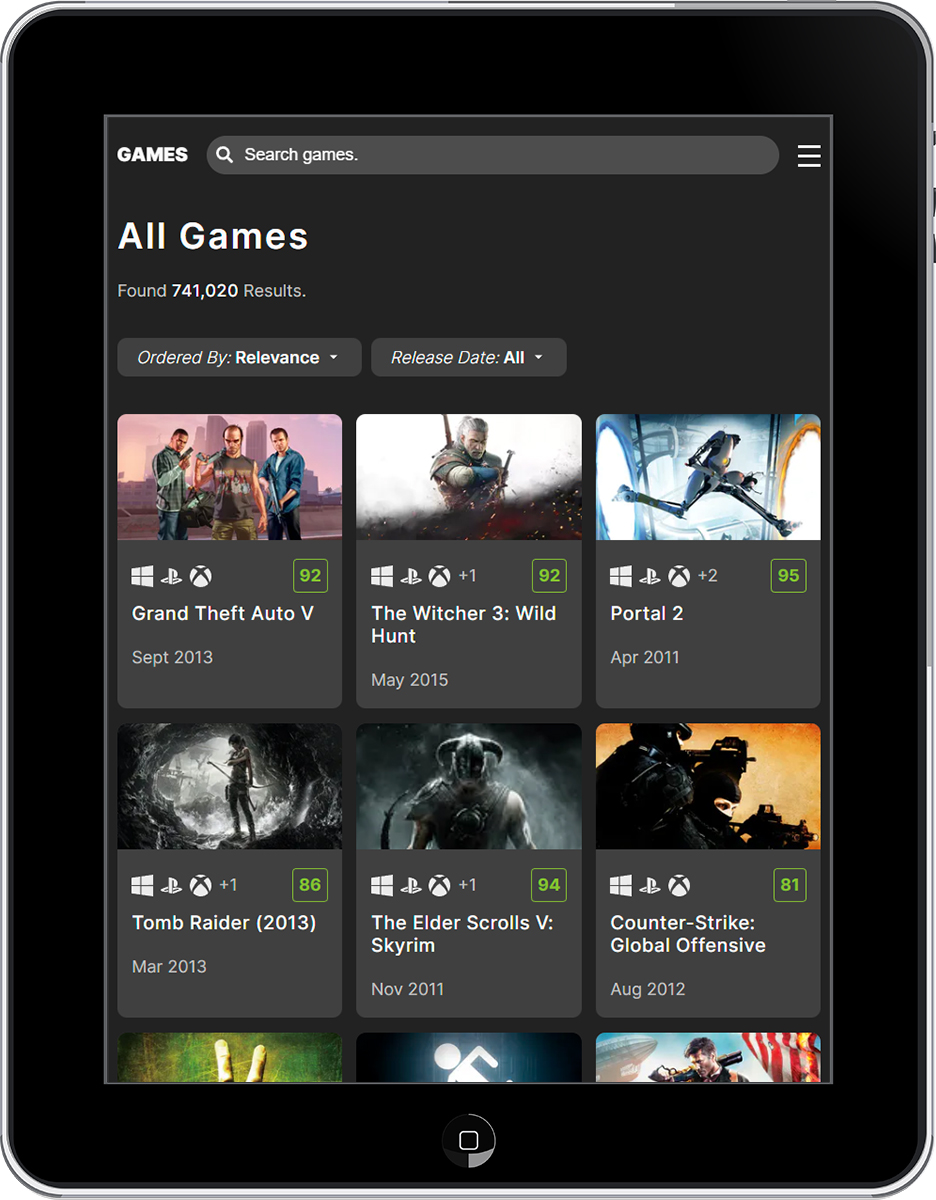
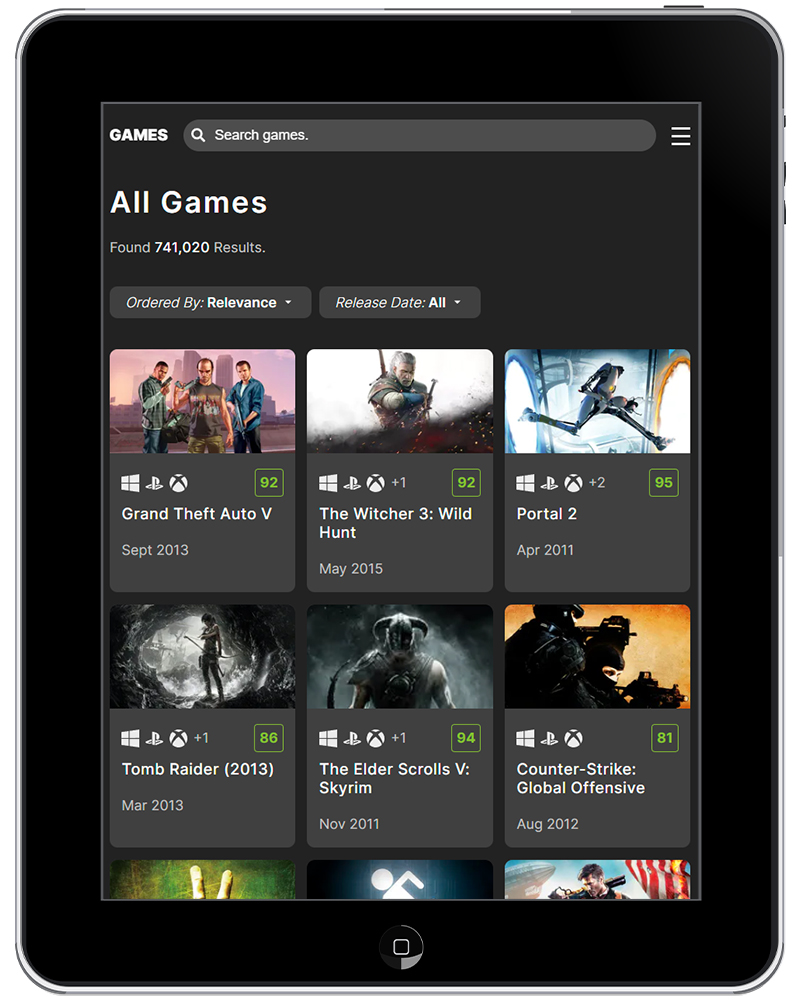
Updated Project styles and project images to match new aspect ratio.

Changed region(s): [[0.0, 0.0, 1.0, 1.0]]

diff --git a/styles/components/_project.scss b/styles/components/_project.scss
@@ -13,8 +13,8 @@
     position: relative;
     flex: 1 1 34rem;
     min-width: 34rem;
-    max-width: 80.3rem;
-    aspect-ratio: 1/1;
+    max-width: 80rem;
+    aspect-ratio: 4/5;
   }
 
   &__details {
@@ -51,7 +51,7 @@
 
   &__description {
     text-align: inherit;
-    margin-bottom: 2rem;
+    margin-bottom: 4rem;
 
     span {
       font-weight: 600;
@@ -64,8 +64,6 @@
   }
 
   .tech {
-    margin-bottom: 2rem;
-
     &__items {
       display: flex;
       align-items: center;
@@ -75,9 +73,10 @@
     }
   }
 
+  .tech,
   .apis,
   .third-party {
-    margin-bottom: 2rem;
+    margin-bottom: 4rem;
 
     .btns {
       margin: 0;
